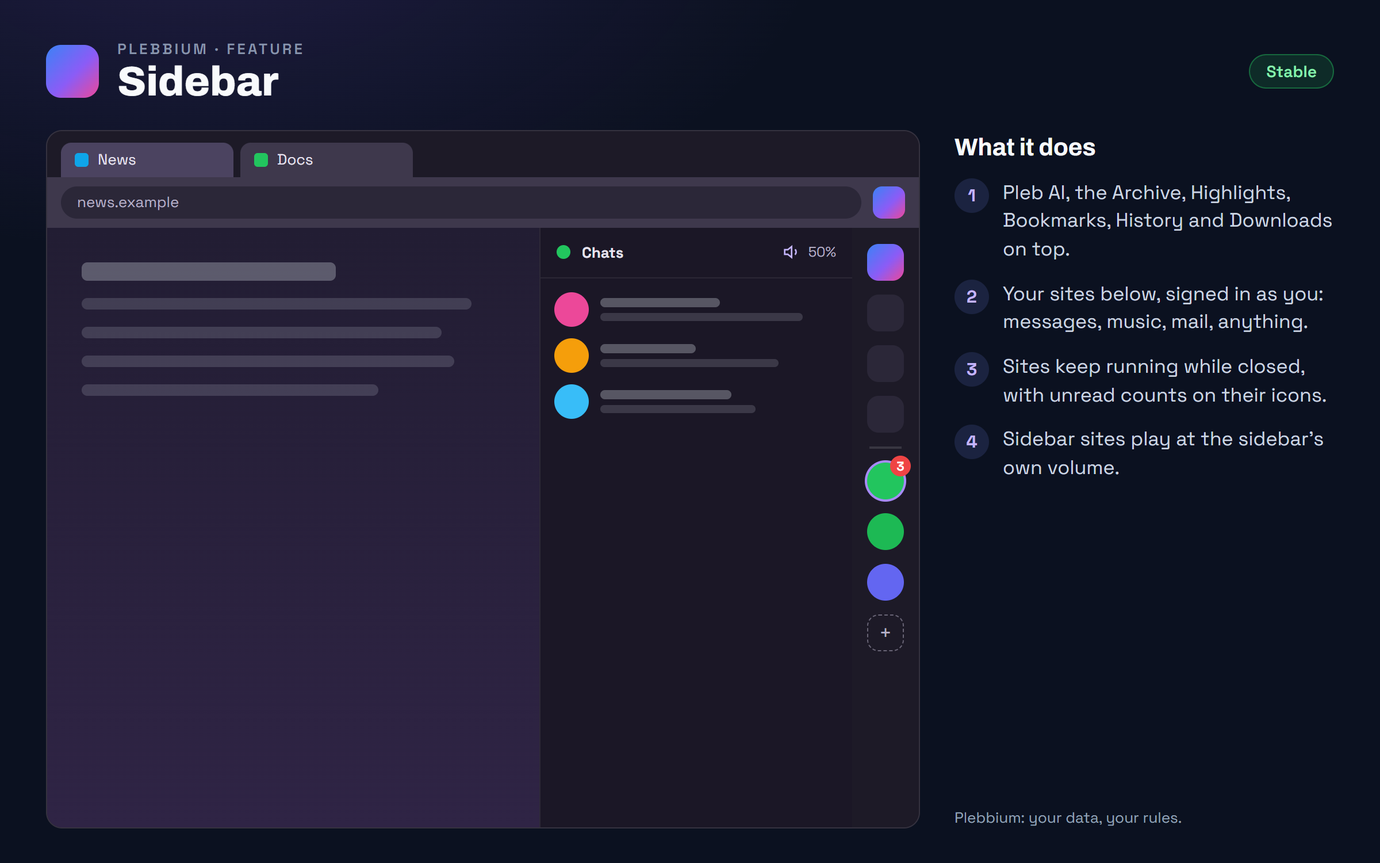
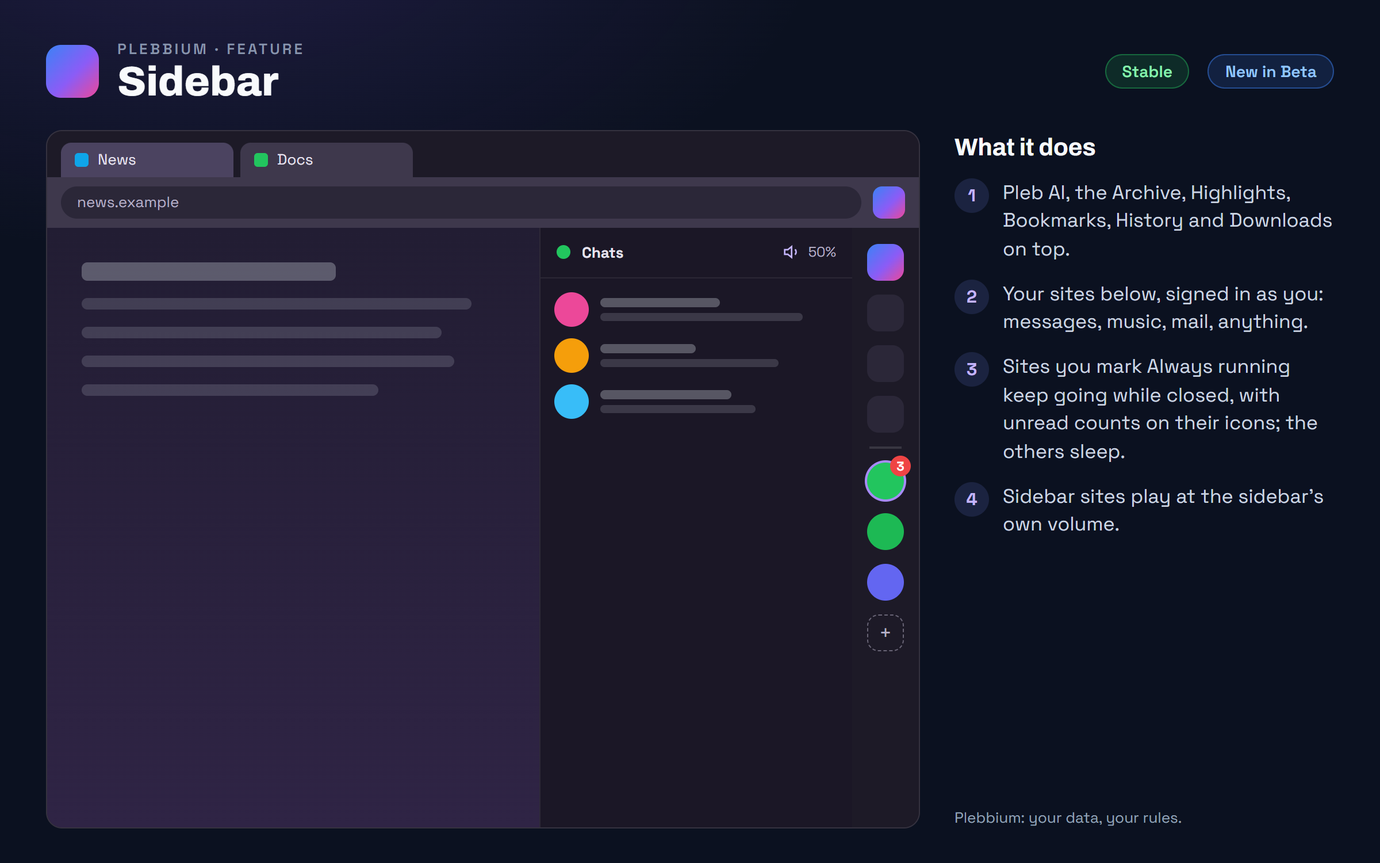
features page: 11 file(s) changed, 0 removed (3 board(s) redrawn)

Changed region(s): [[0.6875, 0.3987, 0.9688, 0.6133], [0.7812, 0.0613, 0.9688, 0.1227]]

diff --git a/features/workspaces/index.html b/features/workspaces/index.html
@@ -6,7 +6,7 @@
 <meta http-equiv="Content-Security-Policy" content="default-src 'none'; img-src 'self'; style-src 'self'; font-src 'self'; script-src 'self'; connect-src 'self'; base-uri 'none'; form-action 'none'">
 <meta name="referrer" content="no-referrer">
 <title>Workspaces · Plebbium features</title>
-<meta name="description" content="Named sets of tabs in one window, switched from icons. Nothing reloads; each can have its own logins.">
+<meta name="description" content="Named sets of tabs in one window, switched from icons. Quick switches reload nothing; each can have its own logins.">
 <link rel="icon" href="../icon.svg" type="image/svg+xml">
 <link rel="stylesheet" href="../site.css">
 <script src="../site.js" defer></script>
@@ -19,21 +19,22 @@
 </header>
 <main id="main" class="wiki">
 <p class="crumbs"><a href="../">All features</a> › <a href="../#shipped">Shipped</a> › Workspaces</p>
-<div class="title"><h1>Workspaces</h1><span class="chip st">Stable</span><span class="since">since 3604</span></div>
-<p class="lead">Named sets of tabs in one window, like Work, Home or a project, switched from icons at the start of the tab strip. Nothing reloads when you switch, and each workspace can have logins of its own.</p>
+<div class="title"><h1>Workspaces</h1><span class="chip st">Stable</span><span class="chip be">New in Beta</span><span class="since">since 3604</span></div>
+<p class="lead">Named sets of tabs in one window, like Work, Home or a project, switched from icons at the start of the tab strip. A quick switch back reloads nothing, a workspace you leave sleeps after 10 seconds to free its memory, and each workspace can have logins of its own.</p>
 <div class="cols">
 <div class="main">
 <figure class="board"><img src="../boards/workspaces.png" width="1200" height="750" alt="A Plebbium window whose tab strip starts with three workspace icons, Work, Home and Project, with a right-click menu on Work offering Rename, Colour, Separate logins and Delete.">
-<figcaption class="sr">What it does: One window, several sets of tabs: an icon each at the start of the tab strip. Switching hides one set and shows another. Nothing reloads. Pinned tabs show in every workspace. Separate logins keep one workspace&#39;s sign-ins apart from the others&#39;.</figcaption></figure>
+<figcaption class="sr">What it does: One window, several sets of tabs: an icon each at the start of the tab strip. Switching hides one set and shows another. Back within 10 seconds, nothing reloads; after that the hidden set sleeps. Pinned tabs show in every workspace. Separate logins keep one workspace&#39;s sign-ins apart from the others&#39;.</figcaption></figure>
 <section class="sec" aria-labelledby="h-use"><h2 id="h-use">How to use it</h2><ol class="steps"><li><span>Switch: click a workspace&#39;s icon at the start of the tab strip, or press <kbd>Ctrl+Shift+1</kbd> to <kbd>9</kbd>. With vertical tabs, type <kbd>@</kbd> in the Everything bar.</span></li><li><span>Make one: type <kbd>new workspace Work</kbd> in the Everything bar (<kbd>Ctrl+Shift+A</kbd>).</span></li><li><span>Move a tab: right-click it › Move to workspace.</span></li><li><span>Rename, recolour or delete: right-click the workspace&#39;s icon.</span></li><li><span>Separate logins: right-click the icon › Separate logins. That workspace gets its own cookies, sign-ins and site data; turning it off asks whether to delete them.</span></li></ol></section>
 <section class="sec" aria-labelledby="h-when"><h2 id="h-when">When it arrived</h2><ul class="tl"><li><p class="v"><b>156.0.8078.3604</b><span>18 Oct 2026 · Beta and Stable</span></p><p>Workspaces, with separate logins.</p></li>
 <li><p class="v"><b>156.0.8078.3611</b><span>Beta 21 Oct 2026 · Stable 22 Oct 2026 (3612)</span></p><p>Share a workspace: the same tabs for everyone in it, live.</p></li>
-<li><p class="v"><b>156.0.8078.3612</b><span>22 Oct 2026 · Beta and Stable</span></p><p>Sharing a workspace turns its separate logins off, so everyone in it uses their normal logins.</p></li></ul></section>
-<section class="sec" aria-labelledby="h-why"><h2 id="h-why">Why it works this way</h2><div class="why"><div><h3>Nothing reloads</h3><p>Chromium can&#39;t hide tabs, and teaching its tab strip to would be fought by every Chromium update. So the tabs of a workspace you leave move to a real window that is never shown, the same move as dragging a tab between windows: pages keep their place and what you typed.</p></div><div><h3>Logins kept apart by Chromium itself</h3><p>Separate logins use Chromium&#39;s own storage partitions, the mechanism behind its app windows: each workspace&#39;s cookies and sign-ins are kept apart by the browser, not by an add-on. Pinned tabs keep your normal logins, because they show in every workspace.</p></div><div><h3>Horizontal tabs first</h3><p>The icons live in the horizontal tab strip; with vertical tabs, the Everything bar&#39;s <kbd>@</kbd> reaches every workspace instead.</p></div></div></section>
+<li><p class="v"><b>156.0.8078.3612</b><span>22 Oct 2026 · Beta and Stable</span></p><p>Sharing a workspace turns its separate logins off, so everyone in it uses their normal logins.</p></li>
+<li><p class="v"><b>156.0.8078.3621</b><span>Beta 13 Nov 2026 · not on Stable yet</span></p><p>A workspace you leave sleeps after 10 seconds, every tab in it.</p></li></ul></section>
+<section class="sec" aria-labelledby="h-why"><h2 id="h-why">Why it works this way</h2><div class="why"><div><h3>Nothing reloads</h3><p>Chromium can&#39;t hide tabs, and teaching its tab strip to would be fought by every Chromium update. So the tabs of a workspace you leave move to a real window that is never shown, the same move as dragging a tab between windows: pages keep their place and what you typed. After 10 seconds there they sleep, freeing their memory, and reload where you left them when shown.</p></div><div><h3>Logins kept apart by Chromium itself</h3><p>Separate logins use Chromium&#39;s own storage partitions, the mechanism behind its app windows: each workspace&#39;s cookies and sign-ins are kept apart by the browser, not by an add-on. Pinned tabs keep your normal logins, because they show in every workspace.</p></div><div><h3>Horizontal tabs first</h3><p>The icons live in the horizontal tab strip; with vertical tabs, the Everything bar&#39;s <kbd>@</kbd> reaches every workspace instead.</p></div></div></section>
 
 <nav class="pn" aria-label="More features"><a href="../security-updates/">‹ Automatic security updates</a><a href="../shared-workspaces/">Shared workspaces ›</a></nav>
 </div>
-<aside class="glance" aria-labelledby="h-glance"><h2 id="h-glance">At a glance</h2><dl><div><dt>Status</dt><dd><span class="chip st">Stable</span></dd></div><div><dt>Arrived</dt><dd>156.0.8078.3604 · 18 Oct 2026</dd></div><div><dt>Keys</dt><dd><kbd>Ctrl+Shift+1…9</kbd></dd></div><div><dt>Where</dt><dd>The start of the tab strip; <kbd>@</kbd> in the Everything bar</dd></div><div><dt>Works with</dt><dd><a href="../shared-workspaces/">Shared workspaces</a> · <a href="../sidebar/">Sidebar</a> · <a href="../send-to-device/">Send to device</a></dd></div></dl></aside>
+<aside class="glance" aria-labelledby="h-glance"><h2 id="h-glance">At a glance</h2><dl><div><dt>Status</dt><dd><span class="chip st">Stable</span><span class="chip be">New in Beta</span></dd></div><div><dt>Arrived</dt><dd>156.0.8078.3604 · 18 Oct 2026</dd></div><div><dt>Keys</dt><dd><kbd>Ctrl+Shift+1…9</kbd></dd></div><div><dt>Where</dt><dd>The start of the tab strip; <kbd>@</kbd> in the Everything bar</dd></div><div><dt>Works with</dt><dd><a href="../shared-workspaces/">Shared workspaces</a> · <a href="../sidebar/">Sidebar</a> · <a href="../send-to-device/">Send to device</a></dd></div></dl></aside>
 </div>
 </main>
 <footer class="foot">

diff --git a/features/index.html b/features/index.html
@@ -21,17 +21,17 @@
 <section class="hero">
 <h1>Everything in Plebbium</h1>
 <p class="lead">A Chromium browser for Windows with Pleb's features built in. Each one is shown the way it looks; open it for how to use it, when it arrived and why it works the way it does.</p>
-<p class="vers"><span class="ver st">Stable 156.0.8078.3620</span><span class="ver be">Beta 156.0.8078.3620</span><span class="ver us" id="in-use" hidden></span><span class="since">Updated 13 Nov 2026</span></p>
+<p class="vers"><span class="ver st">Stable 156.0.8078.3620</span><span class="ver be">Beta 156.0.8078.3621</span><span class="ver us" id="in-use" hidden></span><span class="since">Updated 13 Nov 2026</span></p>
 <p class="find" hidden><label for="find">Find a feature</label><input id="find" type="search" placeholder="Find a feature" autocomplete="off"></p>
 </section>
 <section class="row" id="shipped" aria-labelledby="h-shipped">
 <div class="rowhead"><h2 id="h-shipped">Shipped</h2><p class="sub">In Stable, the version everyone gets</p><p class="n">29 features</p>
 <div class="arrows" hidden><button type="button" class="prev" aria-label="Scroll Shipped back"><svg viewBox="0 0 24 24" aria-hidden="true"><path d="M15 5l-7 7 7 7"/></svg></button><button type="button" class="next" aria-label="Scroll Shipped on"><svg viewBox="0 0 24 24" aria-hidden="true"><path d="M9 5l7 7-7 7"/></svg></button></div></div>
 <ul class="gallery" tabindex="0" aria-label="Shipped">
-<li class="card" data-words="workspaces named sets of tabs in one window, switched from icons. nothing reloads; each can have its own logins.">
+<li class="card" data-words="workspaces named sets of tabs in one window, switched from icons. quick switches reload nothing; each can have its own logins.">
 <a href="workspaces/"><img src="boards/workspaces-card.png" width="600" height="375" alt="" loading="lazy" decoding="async">
-<span class="cb"><span class="h">Workspaces</span><span class="p">Named sets of tabs in one window, switched from icons. Nothing reloads; each can have its own logins.</span>
-<span class="meta"><span class="chip st">Stable</span><span class="since">since 3604</span></span></span></a></li>
+<span class="cb"><span class="h">Workspaces</span><span class="p">Named sets of tabs in one window, switched from icons. Quick switches reload nothing; each can have its own logins.</span>
+<span class="meta"><span class="chip st">Stable</span><span class="chip be">New in Beta</span><span class="since">since 3604</span></span></span></a></li>
 <li class="card" data-words="shared workspaces a workspace that stays the same for everyone in it, live. encrypted end to end.">
 <a href="shared-workspaces/"><img src="boards/shared-workspaces-card.png" width="600" height="375" alt="" loading="lazy" decoding="async">
 <span class="cb"><span class="h">Shared workspaces</span><span class="p">A workspace that stays the same for everyone in it, live. Encrypted end to end.</span>
@@ -43,7 +43,7 @@
 <li class="card" data-words="sidebar pleb ai, the archive and the sites you pin, docked beside the page and signed in.">
 <a href="sidebar/"><img src="boards/sidebar-card.png" width="600" height="375" alt="" loading="lazy" decoding="async">
 <span class="cb"><span class="h">Sidebar</span><span class="p">Pleb AI, the Archive and the sites you pin, docked beside the page and signed in.</span>
-<span class="meta"><span class="chip st">Stable</span><span class="since">since 3605</span></span></span></a></li>
+<span class="meta"><span class="chip st">Stable</span><span class="chip be">New in Beta</span><span class="since">since 3605</span></span></span></a></li>
 <li class="card" data-words="everything bar one box for commands, tabs, bookmarks, history, sums and questions.">
 <a href="everything-bar/"><img src="boards/everything-bar-card.png" width="600" height="375" alt="" loading="lazy" decoding="async">
 <span class="cb"><span class="h">Everything bar</span><span class="p">One box for commands, tabs, bookmarks, history, sums and questions.</span>
@@ -145,10 +145,15 @@
 <span class="cb"><span class="h">What&#39;s in Plebbium</span><span class="p">This page, one click away in the Pleb menu.</span>
 <span class="meta"><span class="chip st">Stable</span><span class="since">since features 0.7.3</span></span></span></a></li>
 </ul></section>
-<section class="row empty" id="beta" aria-labelledby="h-beta">
-<div class="rowhead"><h2 id="h-beta">In Beta</h2><p class="sub">New features land here first. Plebbium settings › Updates switches to Beta</p><p class="n"></p>
-</div>
-<p class="empty-row">Nothing in Beta right now: Beta is the same as Stable.</p></section>
+<section class="row" id="beta" aria-labelledby="h-beta">
+<div class="rowhead"><h2 id="h-beta">In Beta</h2><p class="sub">New features land here first. Plebbium settings › Updates switches to Beta</p><p class="n">1 feature</p>
+<div class="arrows" hidden><button type="button" class="prev" aria-label="Scroll In Beta back"><svg viewBox="0 0 24 24" aria-hidden="true"><path d="M15 5l-7 7 7 7"/></svg></button><button type="button" class="next" aria-label="Scroll In Beta on"><svg viewBox="0 0 24 24" aria-hidden="true"><path d="M9 5l7 7-7 7"/></svg></button></div></div>
+<ul class="gallery" tabindex="0" aria-label="In Beta">
+<li class="card" data-words="lightweight plebbium tabs you can&#39;t see sleep, and a page that gets far too heavy is caught.">
+<a href="lightweight/"><img src="boards/lightweight-card.png" width="600" height="375" alt="" loading="lazy" decoding="async">
+<span class="cb"><span class="h">Lightweight Plebbium</span><span class="p">Tabs you can&#39;t see sleep, and a page that gets far too heavy is caught.</span>
+<span class="meta"><span class="chip be">Beta</span><span class="since">since 3621</span></span></span></a></li>
+</ul></section>
 <section class="row" id="planned" aria-labelledby="h-planned">
 <div class="rowhead"><h2 id="h-planned">Planned</h2><p class="sub">Not in Plebbium yet. Plans can change</p><p class="n">2 features</p>
 <div class="arrows" hidden><button type="button" class="prev" aria-label="Scroll Planned back"><svg viewBox="0 0 24 24" aria-hidden="true"><path d="M15 5l-7 7 7 7"/></svg></button><button type="button" class="next" aria-label="Scroll Planned on"><svg viewBox="0 0 24 24" aria-hidden="true"><path d="M9 5l7 7-7 7"/></svg></button></div></div>

diff --git a/features/sidebar/index.html b/features/sidebar/index.html
@@ -19,21 +19,22 @@
 </header>
 <main id="main" class="wiki">
 <p class="crumbs"><a href="../">All features</a> › <a href="../#shipped">Shipped</a> › Sidebar</p>
-<div class="title"><h1>Sidebar</h1><span class="chip st">Stable</span><span class="since">since 3605</span></div>
-<p class="lead">A strip of icons at the right edge of the window: Pleb&#39;s tools on top, the sites you pin below. Each opens docked beside the page, signed in with your normal logins, and sites keep running while closed.</p>
+<div class="title"><h1>Sidebar</h1><span class="chip st">Stable</span><span class="chip be">New in Beta</span><span class="since">since 3605</span></div>
+<p class="lead">A strip of icons at the right edge of the window: Pleb&#39;s tools on top, the sites you pin below. Each opens docked beside the page, signed in with your normal logins. A closed site sleeps after 10 seconds unless it is Always running.</p>
 <div class="cols">
 <div class="main">
 <figure class="board"><img src="../boards/sidebar.png" width="1200" height="750" alt="A Plebbium window with a strip of round icons at its right edge and a messaging site open in a panel beside the page, its icon showing 3 unread.">
-<figcaption class="sr">What it does: Pleb AI, the Archive, Highlights, Bookmarks, History and Downloads on top. Your sites below, signed in as you: messages, music, mail, anything. Sites keep running while closed, with unread counts on their icons. Sidebar sites play at the sidebar&#39;s own volume.</figcaption></figure>
+<figcaption class="sr">What it does: Pleb AI, the Archive, Highlights, Bookmarks, History and Downloads on top. Your sites below, signed in as you: messages, music, mail, anything. Sites you mark Always running keep going while closed, with unread counts on their icons; the others sleep. Sidebar sites play at the sidebar&#39;s own volume.</figcaption></figure>
 <section class="sec" aria-labelledby="h-use"><h2 id="h-use">How to use it</h2><ol class="steps"><li><span>Show or hide it: <kbd>Alt+Shift+S</kbd>, the button at its foot, the Pleb menu, or <kbd>sidebar</kbd> in the Everything bar.</span></li><li><span>Add a site: the + in the strip, or right-click a tab › Add to sidebar.</span></li><li><span>Right-click a site for its mobile layout, sound, blocker switch and more; drag icons to reorder them.</span></li><li><span>Volume: sidebar sites play at the sidebar&#39;s level, 50% to start. The speaker in a site&#39;s panel turns it: scroll over it, or click it to give that site a volume of its own.</span></li><li><span>Hidden but handy: let it peek in at the window&#39;s edge (a switch in the Pleb menu).</span></li></ol></section>
 <section class="sec" aria-labelledby="h-when"><h2 id="h-when">When it arrived</h2><ul class="tl"><li><p class="v"><b>156.0.8078.3605</b><span>18 Oct 2026 · Beta and Stable</span></p><p>The sidebar: Pleb&#39;s tools and your own sites, docked beside the page.</p></li>
 <li><p class="v"><b>156.0.8078.3606</b><span>19 Oct 2026 · Beta and Stable</span></p><p>Each sidebar site has the blocker&#39;s switch in its right-click menu.</p></li>
-<li><p class="v"><b>156.0.8078.3610</b><span>Beta 20 Oct 2026 · Stable 22 Oct 2026 (3612)</span></p><p>The sidebar&#39;s own volume, or a site&#39;s own.</p></li></ul></section>
+<li><p class="v"><b>156.0.8078.3610</b><span>Beta 20 Oct 2026 · Stable 22 Oct 2026 (3612)</span></p><p>The sidebar&#39;s own volume, or a site&#39;s own.</p></li>
+<li><p class="v"><b>156.0.8078.3621</b><span>Beta 13 Nov 2026 · not on Stable yet</span></p><p>Always running: other sites sleep 10 seconds after their panel closes.</p></li></ul></section>
 <section class="sec" aria-labelledby="h-why"><h2 id="h-why">Why it works this way</h2><div class="why"><div><h3>Real pages, not frames</h3><p>A sidebar site is a page of its own, like a tab, never a frame inside another page: sites refuse to be framed, and a framed page wouldn&#39;t have your logins, permission prompts or dialogs.</p></div><div><h3>Phone-sized by default</h3><p>Sites open in their phone layout, which fits a narrow panel, unless they send phones to an app store; those open as they do on a computer.</p></div><div><h3>Volume in the engine</h3><p>The sidebar&#39;s volume works on every site and in every player because the browser turns the sound down itself, without the page knowing.</p></div></div></section>
 
 <nav class="pn" aria-label="More features"><a href="../watch-together/">‹ Watch together</a><a href="../everything-bar/">Everything bar ›</a></nav>
 </div>
-<aside class="glance" aria-labelledby="h-glance"><h2 id="h-glance">At a glance</h2><dl><div><dt>Status</dt><dd><span class="chip st">Stable</span></dd></div><div><dt>Arrived</dt><dd>156.0.8078.3605 · 18 Oct 2026</dd></div><div><dt>Keys</dt><dd><kbd>Alt+Shift+S</kbd></dd></div><div><dt>Where</dt><dd>The right edge of the window</dd></div><div><dt>Works with</dt><dd><a href="../pleb-ai/">Pleb AI</a> · <a href="../blocker/">Blocker</a> · <a href="../workspaces/">Workspaces</a></dd></div></dl></aside>
+<aside class="glance" aria-labelledby="h-glance"><h2 id="h-glance">At a glance</h2><dl><div><dt>Status</dt><dd><span class="chip st">Stable</span><span class="chip be">New in Beta</span></dd></div><div><dt>Arrived</dt><dd>156.0.8078.3605 · 18 Oct 2026</dd></div><div><dt>Keys</dt><dd><kbd>Alt+Shift+S</kbd></dd></div><div><dt>Where</dt><dd>The right edge of the window</dd></div><div><dt>Works with</dt><dd><a href="../pleb-ai/">Pleb AI</a> · <a href="../blocker/">Blocker</a> · <a href="../workspaces/">Workspaces</a></dd></div></dl></aside>
 </div>
 </main>
 <footer class="foot">

diff --git a/features/lightweight/index.html b/features/lightweight/index.html
@@ -1,0 +1,42 @@
+<!doctype html>
+<html lang="en">
+<head>
+<meta charset="utf-8">
+<meta name="viewport" content="width=device-width, initial-scale=1">
+<meta http-equiv="Content-Security-Policy" content="default-src 'none'; img-src 'self'; style-src 'self'; font-src 'self'; script-src 'self'; connect-src 'self'; base-uri 'none'; form-action 'none'">
+<meta name="referrer" content="no-referrer">
+<title>Lightweight Plebbium · Plebbium features</title>
+<meta name="description" content="Tabs you can&#39;t see sleep, and a page that gets far too heavy is caught.">
+<link rel="icon" href="../icon.svg" type="image/svg+xml">
+<link rel="stylesheet" href="../site.css">
+<script src="../site.js" defer></script>
+</head>
+<body>
+<a class="skip" href="#main">Skip to the features</a>
+<header class="top">
+<a class="brand" href="../"><span class="logo" aria-hidden="true"></span><span class="name">Plebbium</span><span class="sub">Features</span></a>
+<a class="suggest" href="https://sync.plebbian.com/suggest">Suggest a feature</a>
+</header>
+<main id="main" class="wiki">
+<p class="crumbs"><a href="../">All features</a> › <a href="../#beta">In Beta</a> › Lightweight Plebbium</p>
+<div class="title"><h1>Lightweight Plebbium</h1><span class="chip be">Beta</span><span class="since">since 3621</span></div>
+<p class="lead">Plebbium frees the memory of what you aren&#39;t looking at: a workspace you leave sleeps after 10 seconds, sidebar sites sleep when closed unless you keep them running, and a page that grows huge or keeps the CPU busy gets a warning with Reload.</p>
+<div class="cols">
+<div class="main">
+<figure class="board"><img src="../boards/lightweight.png" width="1200" height="750" alt="A browser window with a card under the Pleb button: This tab is very heavy, with Reload, Close tab and Not for this site.">
+<figcaption class="sr">What it does: A workspace you leave sleeps 10 seconds later, every tab in it. Sidebar sites sleep when their panel closes, unless they are Always running. A page over 2 GB, or busy on a whole CPU core, gets a warning with Reload. A tab playing sound stays awake until it is quiet.</figcaption></figure>
+<section class="sec" aria-labelledby="h-use"><h2 id="h-use">How to use it</h2><ol class="steps"><li><span>Switch workspace as usual: the one you leave sleeps 10 seconds later. Come back within 10 seconds and nothing reloads.</span></li><li><span>Right-click a sidebar site and tick Always running for the ones that must stay awake, like music or mail. The rest sleep when their panel closes.</span></li><li><span>When Plebbium says a page is very heavy, press Reload. Sleep it frees the memory until you open it again; Not for this site stops the warnings there.</span></li><li><span>Plebbium settings › Performance sets when it warns: above 1, 2 or 4 GB, or never.</span></li></ol></section>
+<section class="sec" aria-labelledby="h-when"><h2 id="h-when">When it arrived</h2><ul class="tl"><li><p class="v"><b>156.0.8078.3621</b><span>Beta 13 Nov 2026 · not on Stable yet</span></p><p>Hidden workspaces and closed sidebar sites sleep; the heavy-page watchdog; a lighter blocker on busy pages.</p></li></ul></section>
+<section class="sec" aria-labelledby="h-why"><h2 id="h-why">Why it works this way</h2><div class="why"><div><h3>Memory goes to what you see</h3><p>A browser&#39;s memory is mostly its pages. Pages you can&#39;t see, in another workspace or a closed sidebar panel, shouldn&#39;t hold on to it.</p></div><div><h3>Catch the runaway</h3><p>Now and then a single page grows without end. Plebbium notices it in minutes instead of leaving you to find it in Task Manager.</p></div><div><h3>Chromium stays the engine</h3><p>A rewrite on another engine was compared and would not be lighter: the memory is in the pages, not the browser around them.</p></div></div></section>
+
+<nav class="pn" aria-label="More features"><a href="../whats-in-plebbium/">‹ What&#39;s in Plebbium</a><a href="../command-chains/">Command chains ›</a></nav>
+</div>
+<aside class="glance" aria-labelledby="h-glance"><h2 id="h-glance">At a glance</h2><dl><div><dt>Status</dt><dd><span class="chip be">Beta</span></dd></div><div><dt>Arrived</dt><dd>156.0.8078.3621 · 13 Nov 2026</dd></div><div><dt>Where</dt><dd>Plebbium settings › Performance · a sidebar site&#39;s right-click menu › Always running</dd></div><div><dt>Works with</dt><dd><a href="../workspaces/">Workspaces</a> · <a href="../sidebar/">Sidebar</a> · <a href="../calm-tabs/">Calm tabs</a></dd></div></dl></aside>
+</div>
+</main>
+<footer class="foot">
+<p>Plebbium is made by Pleb on Chromium. Planned features are plans, not promises. An idea or a bug? In Plebbium, the Pleb button › Suggest a feature or fix.</p>
+<p class="links"><a href="https://sync.plebbian.com/suggest">Suggestion box</a><a href="https://github.com/Trainer-Han/plebbium-updates/releases/tag/download">Download</a></p>
+</footer>
+</body>
+</html>

diff --git a/features/command-chains/index.html b/features/command-chains/index.html
@@ -29,7 +29,7 @@
 <div class="example"><p class="k">For example</p><p>A chain called morning: switch to the Work workspace, open your mail and calendar side by side, and tidy the tabs from the day before. Ctrl+Shift+A, morning, Enter, and the day is set up.</p></div></section>
 <section class="sec" aria-labelledby="h-why"><h2 id="h-why">Why it works this way</h2><div class="why"><div><h3>Routines, not repetition</h3><p>Many people open the same few things in the same order every day; one word should be enough.</p></div><div><h3>Built from what&#39;s there</h3><p>A chain only uses steps Plebbium already has, so it can&#39;t do anything you couldn&#39;t do by hand.</p></div></div></section>
 <p class="plan-note">Plans can change, and there is no date: Pleb decides what gets built and when.</p>
-<nav class="pn" aria-label="More features"><a href="../whats-in-plebbium/">‹ What&#39;s in Plebbium</a><a href="../security-updates/">Automatic security updates ›</a></nav>
+<nav class="pn" aria-label="More features"><a href="../lightweight/">‹ Lightweight Plebbium</a><a href="../security-updates/">Automatic security updates ›</a></nav>
 </div>
 <aside class="glance" aria-labelledby="h-glance"><h2 id="h-glance">At a glance</h2><dl><div><dt>Status</dt><dd><span class="chip pl">Planned</span></dd></div><div><dt>Works with</dt><dd><a href="../everything-bar/">Everything bar</a> · <a href="../workspaces/">Workspaces</a> · <a href="../split-view/">Split view</a></dd></div></dl></aside>
 </div>

diff --git a/features/whats-in-plebbium/index.html b/features/whats-in-plebbium/index.html
@@ -29,7 +29,7 @@
 <section class="sec" aria-labelledby="h-when"><h2 id="h-when">When it arrived</h2><ul class="tl"><li><p class="v"><b>Features 0.7.1</b><span>26 Oct 2026 · Beta and Stable</span></p><p>What&#39;s in Plebbium, in the Pleb menu.</p></li></ul></section>
 <section class="sec" aria-labelledby="h-why"><h2 id="h-why">Why it works this way</h2><div class="why"><div><h3>See what exists before asking</h3><p>Seeing what is already there and asking for what isn&#39;t sit side by side in the menu.</p></div></div></section>
 
-<nav class="pn" aria-label="More features"><a href="../send-to-device/">‹ Send to device</a><a href="../command-chains/">Command chains ›</a></nav>
+<nav class="pn" aria-label="More features"><a href="../send-to-device/">‹ Send to device</a><a href="../lightweight/">Lightweight Plebbium ›</a></nav>
 </div>
 <aside class="glance" aria-labelledby="h-glance"><h2 id="h-glance">At a glance</h2><dl><div><dt>Status</dt><dd><span class="chip st">Stable</span></dd></div><div><dt>Arrived</dt><dd>features 0.7.3 · 26 Oct 2026</dd></div><div><dt>Works with</dt><dd><a href="../suggestion-box/">Suggestion box</a></dd></div></dl></aside>
 </div>
